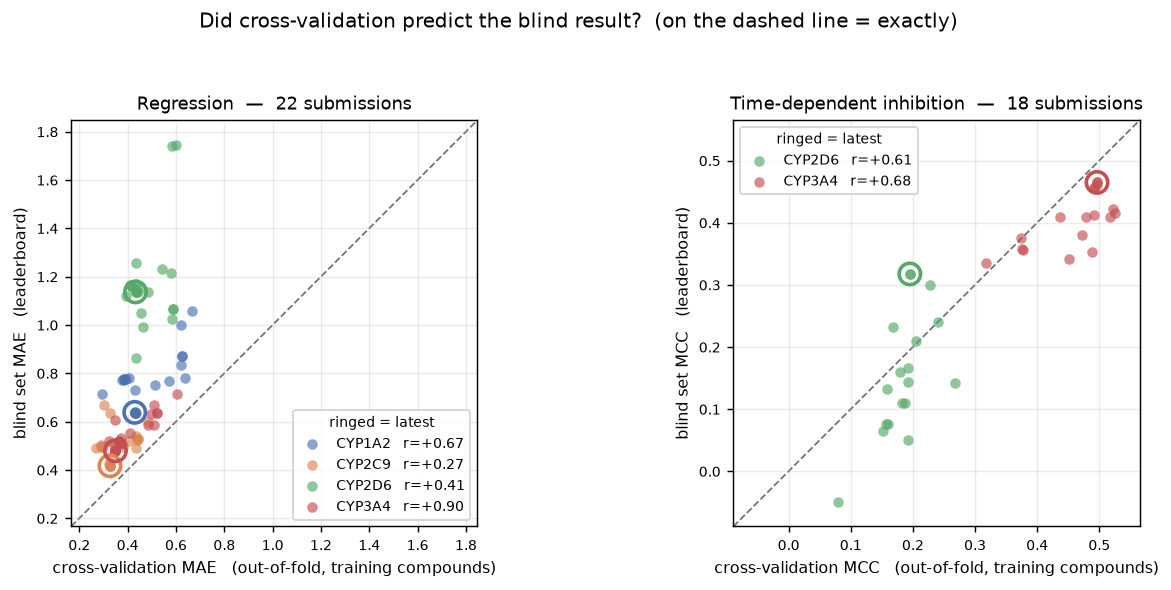
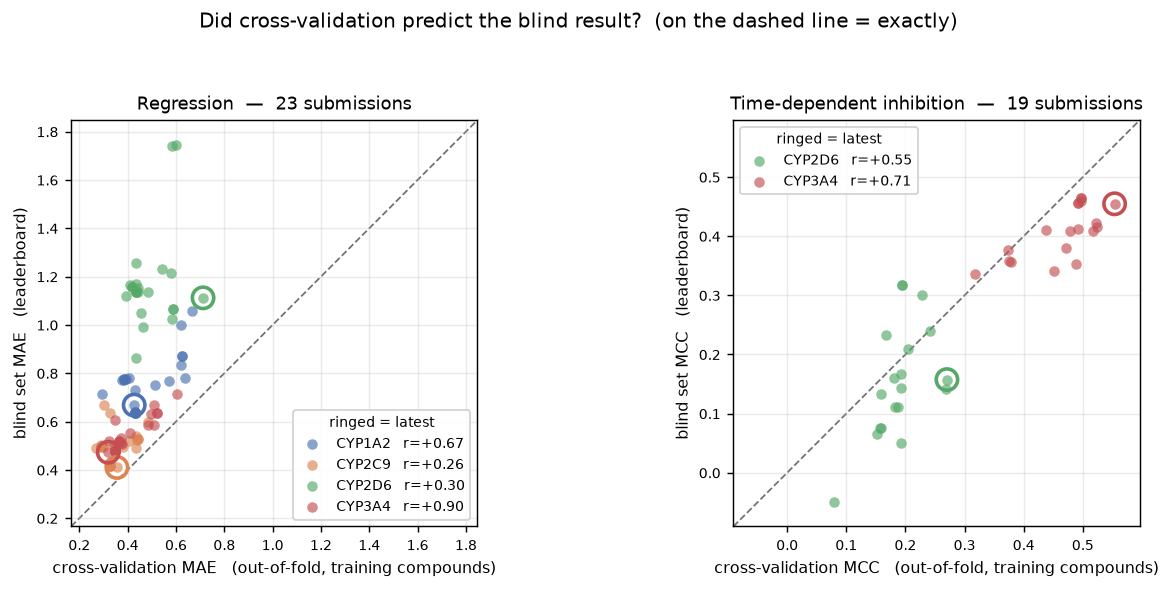
CYP inhibition challenge -- method and results

diff --git a/README.md b/README.md
@@ -33,11 +33,11 @@ Every reported number is out-of-fold. Nothing is scored on data the base learner
 <tr><th>MAE</th><th>R²</th><th>Spearman ρ</th><th>ST-RAE</th><th>MAE</th><th>R²</th><th>Spearman ρ</th><th>best</th><th>latest</th><th>percentile</th><th>rank</th><th>percentile</th></tr>
 </thead>
 <tbody>
-<tr><td>CYP1A2</td><td align="right">0.429</td><td align="right">0.671</td><td align="right">0.777</td><td align="right">0.441</td><td align="right">0.656</td><td align="right">0.660</td><td align="right">0.826</td><td align="right">3</td><td align="right">6</td><td align="right">top 3%</td><td align="right">30</td><td align="right">top 14%</td></tr>
-<tr><td>CYP2C9</td><td align="right">0.327</td><td align="right">0.667</td><td align="right">0.834</td><td align="right">0.380</td><td align="right">0.480</td><td align="right">0.686</td><td align="right">0.851</td><td align="right">6</td><td align="right">10</td><td align="right">top 4%</td><td align="right">20</td><td align="right">top 9%</td></tr>
-<tr><td>CYP2D6</td><td align="right">0.432</td><td align="right">0.481</td><td align="right">0.792</td><td align="right">0.653</td><td align="right">1.141</td><td align="right">0.290</td><td align="right">0.449</td><td align="right">33</td><td align="right">42</td><td align="right">top 18%</td><td align="right">37</td><td align="right">top 17%</td></tr>
-<tr><td>CYP3A4</td><td align="right">0.349</td><td align="right">0.813</td><td align="right">0.910</td><td align="right">0.386</td><td align="right">0.475</td><td align="right">0.743</td><td align="right">0.863</td><td align="right">14</td><td align="right">14</td><td align="right">top 6%</td><td align="right">23</td><td align="right">top 11%</td></tr>
-<tr><td><strong>macro average</strong></td><td align="right"><strong>0.384</strong></td><td align="right"><strong>0.658</strong></td><td align="right"><strong>0.828</strong></td><td align="right"><strong>0.465</strong></td><td align="right"><strong>0.688</strong></td><td align="right"><strong>0.595</strong></td><td align="right"><strong>0.747</strong></td><td align="right"><strong>13</strong></td><td align="right"><strong>21</strong></td><td align="right"><strong>top 9%</strong></td><td align="right"><strong>28</strong></td><td align="right"><strong>top 13%</strong></td></tr>
+<tr><td>CYP1A2</td><td align="right">0.429</td><td align="right">0.671</td><td align="right">0.777</td><td align="right">0.441</td><td align="right">0.656</td><td align="right">0.660</td><td align="right">0.826</td><td align="right">3</td><td align="right">30</td><td align="right">top 13%</td><td align="right">30</td><td align="right">top 14%</td></tr>
+<tr><td>CYP2C9</td><td align="right">0.327</td><td align="right">0.667</td><td align="right">0.834</td><td align="right">0.380</td><td align="right">0.480</td><td align="right">0.686</td><td align="right">0.851</td><td align="right">6</td><td align="right">31</td><td align="right">top 13%</td><td align="right">20</td><td align="right">top 9%</td></tr>
+<tr><td>CYP2D6</td><td align="right">0.712</td><td align="right">0.585</td><td align="right">nan</td><td align="right">0.653</td><td align="right">1.141</td><td align="right">0.290</td><td align="right">0.449</td><td align="right">33</td><td align="right">41</td><td align="right">top 18%</td><td align="right">37</td><td align="right">top 17%</td></tr>
+<tr><td>CYP3A4</td><td align="right">0.320</td><td align="right">0.828</td><td align="right">nan</td><td align="right">0.386</td><td align="right">0.475</td><td align="right">0.743</td><td align="right">0.863</td><td align="right">14</td><td align="right">14</td><td align="right">top 6%</td><td align="right">23</td><td align="right">top 11%</td></tr>
+<tr><td><strong>macro average</strong></td><td align="right"><strong>0.447</strong></td><td align="right"><strong>0.688</strong></td><td align="right"><strong>nan</strong></td><td align="right"><strong>0.465</strong></td><td align="right"><strong>0.688</strong></td><td align="right"><strong>0.595</strong></td><td align="right"><strong>0.747</strong></td><td align="right"><strong>13</strong></td><td align="right"><strong>28</strong></td><td align="right"><strong>top 12%</strong></td><td align="right"><strong>28</strong></td><td align="right"><strong>top 13%</strong></td></tr>
 </tbody>
 </table>
 <p><em>The two ranking groups are different boards and their percentiles are not comparable: the live leaderboard scores half the held-out set, the <strong>interim</strong> board scores all of it. The macro row there sits in <strong>Tier 6</strong> of their significance tiering.</em></p>
@@ -50,9 +50,9 @@ Every reported number is out-of-fold. Nothing is scored on data the base learner
 <tr><th>MCC</th><th>AUC</th><th>MCC</th><th>Accuracy</th><th>F1</th><th>best</th><th>latest</th><th>percentile</th><th>rank</th><th>percentile</th></tr>
 </thead>
 <tbody>
-<tr><td>CYP2D6</td><td align="right">0.268</td><td align="right">0.711</td><td align="right">0.256</td><td align="right">0.918</td><td align="right">0.298</td><td align="right">13</td><td align="right">31</td><td align="right">top 24%</td><td align="right">26</td><td align="right">top 23%</td></tr>
-<tr><td>CYP3A4</td><td align="right">0.437</td><td align="right">0.805</td><td align="right">0.504</td><td align="right">0.761</td><td align="right">0.671</td><td align="right">3</td><td align="right">19</td><td align="right">top 15%</td><td align="right">3</td><td align="right">top 3%</td></tr>
-<tr><td><strong>macro average</strong></td><td align="right"><strong>0.353</strong></td><td align="right"><strong>0.758</strong></td><td align="right"><strong>0.380</strong></td><td align="right"><strong>0.840</strong></td><td align="right"><strong>0.484</strong></td><td align="right"><strong>14</strong></td><td align="right"><strong>26</strong></td><td align="right"><strong>top 20%</strong></td><td align="right"><strong>6</strong></td><td align="right"><strong>top 5%</strong></td></tr>
+<tr><td>CYP2D6</td><td align="right">0.270</td><td align="right">0.719</td><td align="right">0.256</td><td align="right">0.918</td><td align="right">0.298</td><td align="right">13</td><td align="right">85</td><td align="right">top 66%</td><td align="right">26</td><td align="right">top 23%</td></tr>
+<tr><td>CYP3A4</td><td align="right">0.554</td><td align="right">0.864</td><td align="right">0.504</td><td align="right">0.761</td><td align="right">0.671</td><td align="right">3</td><td align="right">27</td><td align="right">top 21%</td><td align="right">3</td><td align="right">top 3%</td></tr>
+<tr><td><strong>macro average</strong></td><td align="right"><strong>0.412</strong></td><td align="right"><strong>0.792</strong></td><td align="right"><strong>0.380</strong></td><td align="right"><strong>0.840</strong></td><td align="right"><strong>0.484</strong></td><td align="right"><strong>14</strong></td><td align="right"><strong>61</strong></td><td align="right"><strong>top 47%</strong></td><td align="right"><strong>6</strong></td><td align="right"><strong>top 5%</strong></td></tr>
 </tbody>
 </table>
 <p><em>The two ranking groups are different boards and their percentiles are not comparable: the live leaderboard scores half the held-out set, the <strong>interim</strong> board scores all of it. The macro row there sits in <strong>Tier 1</strong>, the top tier &mdash; the 26 entries they could not separate from first place.</em></p>
@@ -82,7 +82,7 @@ would put two different quantities on one axis.
 
 ![cross-validation vs the blind set](cv_vs_blind.png)
 
-Reading the figure: on **regression**, 100% of submission-endpoint pairs came out worse on the blind set than in cross-validation (median MAE +0.208); on **TDI**, 81% of submission-endpoint pairs came out worse on the blind set than in cross-validation (median MCC -0.036).
+Reading the figure: on **regression**, 100% of submission-endpoint pairs came out worse on the blind set than in cross-validation (median MAE +0.208); on **TDI**, 82% of submission-endpoint pairs came out worse on the blind set than in cross-validation (median MCC -0.042).
 
 Correlations are quoted per endpoint on purpose. Pooling them measures the gap *between*
 endpoints rather than whether cross-validation tracked a submission's progress — pooled, MCC
